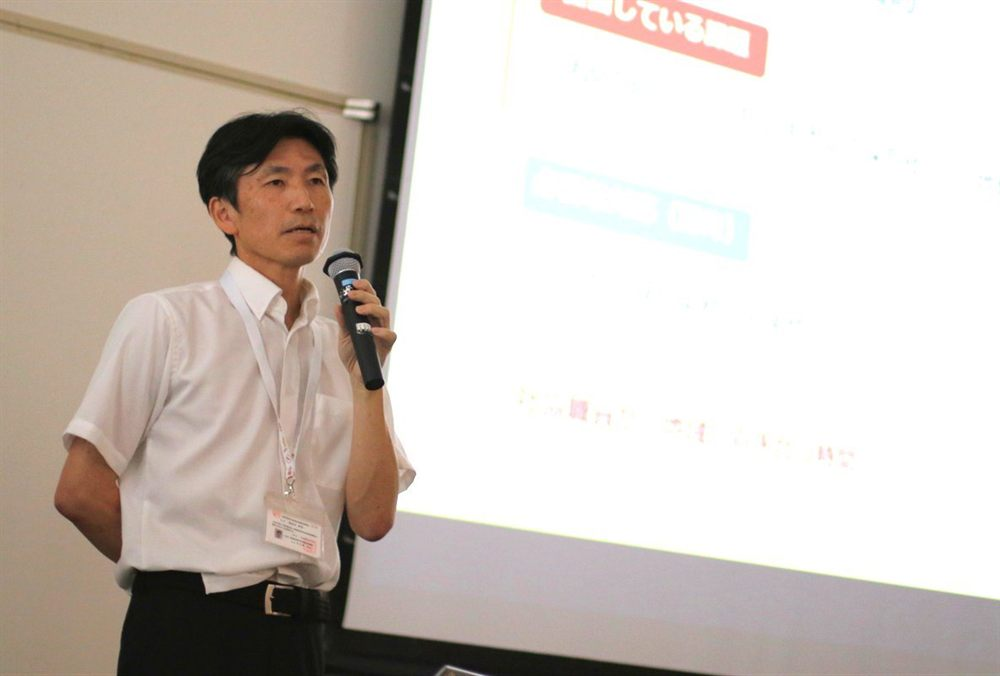
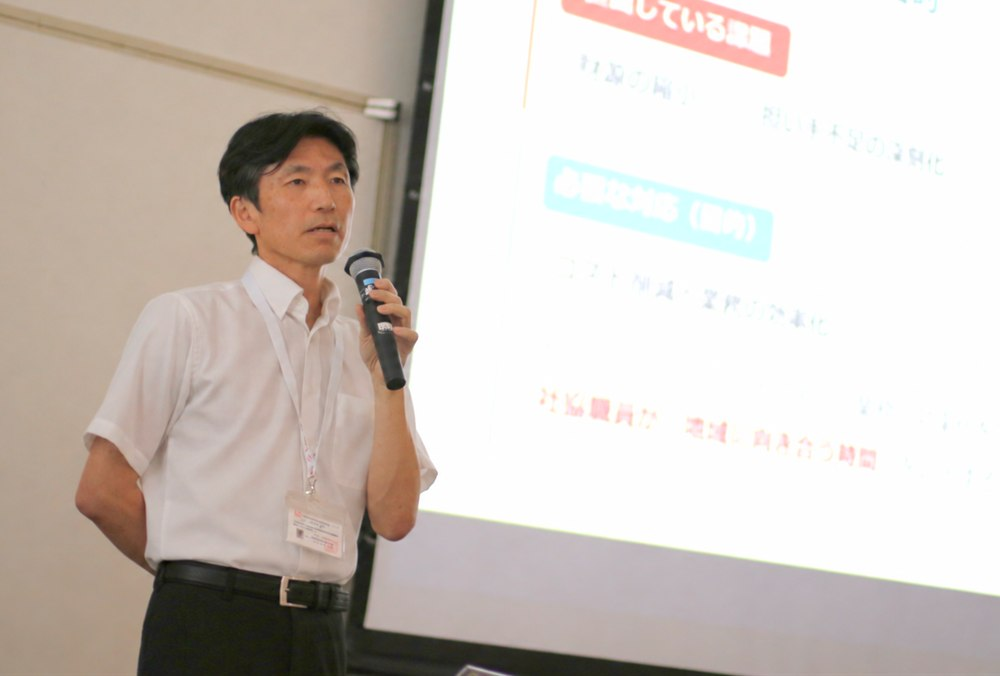
講演3の写真を差し替え件数表記を数千件に修正
- photo-presenter2.jpg を長谷川様の別カットに差し替え（構図・明るさ・彩度は従来写真に合わせて調整）
- ボランティアポイントの件数を「年間6500件／6,500件」から「年間数千件」に変更（一覧・講演3の2か所）

diff --git a/events/social-welfare-seminar-2026-08/index.html b/events/social-welfare-seminar-2026-08/index.html
@@ -399,7 +399,7 @@
                     <span class="program-tag">講演3</span>
                     <h3 class="program-title">災害VCだけじゃない！<br class="br-pc">美濃加茂市社会福祉協議会の活用方法</h3>
                     <p class="program-speaker">美濃加茂市社会福祉協議会 地域福祉課長 長谷川 武司 氏</p>
-                    <p>10年前、ボランティアのポイント管理とマッチング業務の属人化（年間6500件を紙とFAXで1名が担当）を解消するために導入を開始しました。<br class="br-pc">現在では300以上のアプリを開発し、日常生活自立支援、生活困窮者自立支援、福祉車両カレンダー、車検リマインダー、Googleマップ連携など、福祉・社協業務のほぼ全般でkintoneを活用しています。</p>
+                    <p>10年前、ボランティアのポイント管理とマッチング業務の属人化（年間数千件を紙とFAXで1名が担当）を解消するために導入を開始しました。<br class="br-pc">現在では300以上のアプリを開発し、日常生活自立支援、生活困窮者自立支援、福祉車両カレンダー、車検リマインダー、Googleマップ連携など、福祉・社協業務のほぼ全般でkintoneを活用しています。</p>
                     <a href="lecture3.html" class="detail-link"><span class="label-text">詳しく見る</span> <i class="fas fa-chevron-right arrow" style="font-size: 12px;"></i></a>
                 </div>
 

diff --git a/events/social-welfare-seminar-2026-08/lecture3.html b/events/social-welfare-seminar-2026-08/lecture3.html
@@ -181,7 +181,7 @@
                 </div>
 
                 <h2>概要</h2>
-                <p>10年前、年間6,500件におよぶボランティアポイントの管理・調整を1名の担当者が紙とFAXで行っており、属人化してブラックボックス化していた課題を解消するためにkintoneを導入。</p>
+                <p>10年前、年間数千件におよぶボランティアポイントの管理・調整を1名の担当者が紙とFAXで行っており、属人化してブラックボックス化していた課題を解消するためにkintoneを導入。</p>
                 <p>今では23ユーザーで300以上のアプリを開発・運用し、日常生活自立支援から生活困窮、地域福祉、貸出管理、特別会計まで、社協業務のほぼすべてをkintone上で完結させています。</p>
 
                 <h2>発表の重要トピック</h2>
